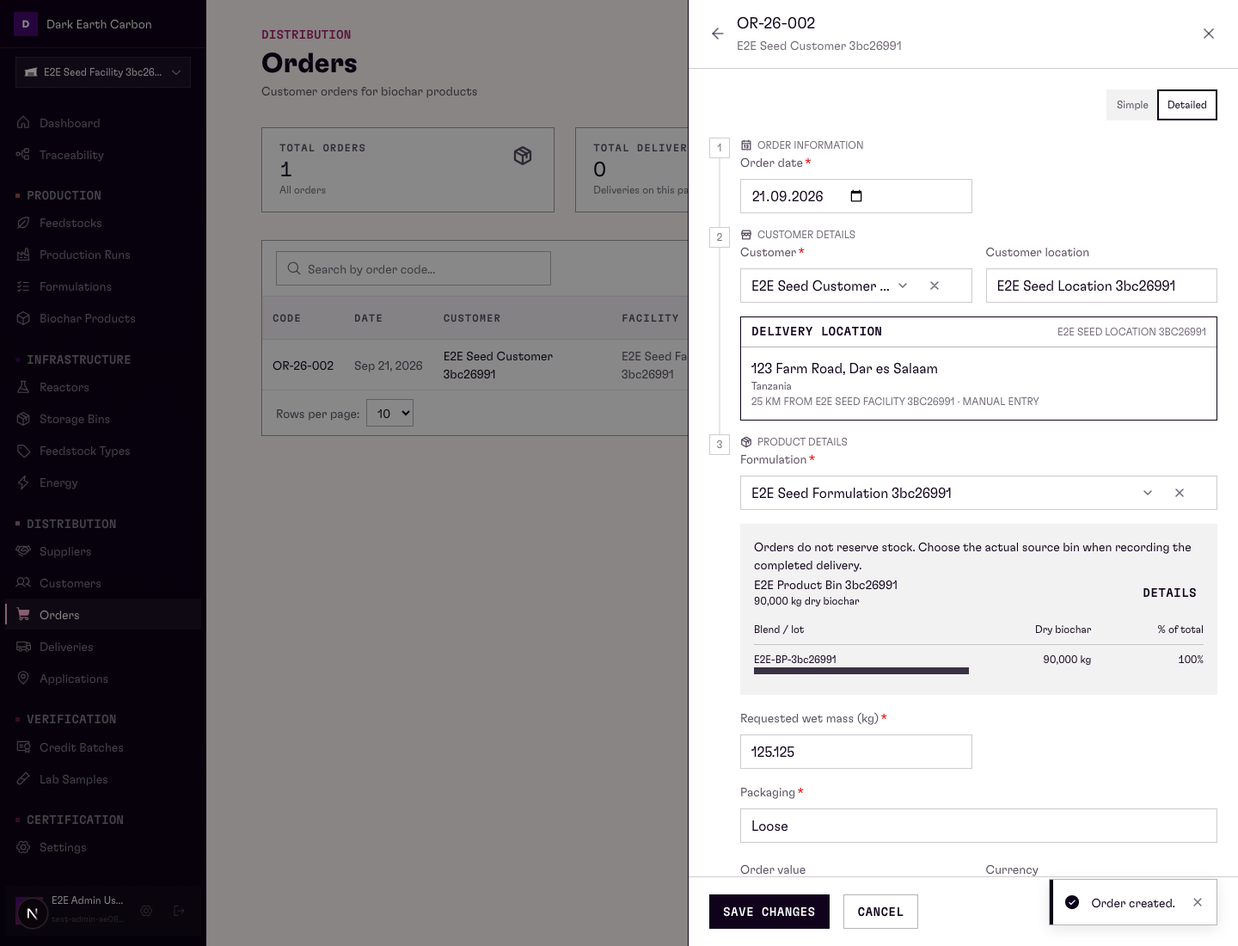
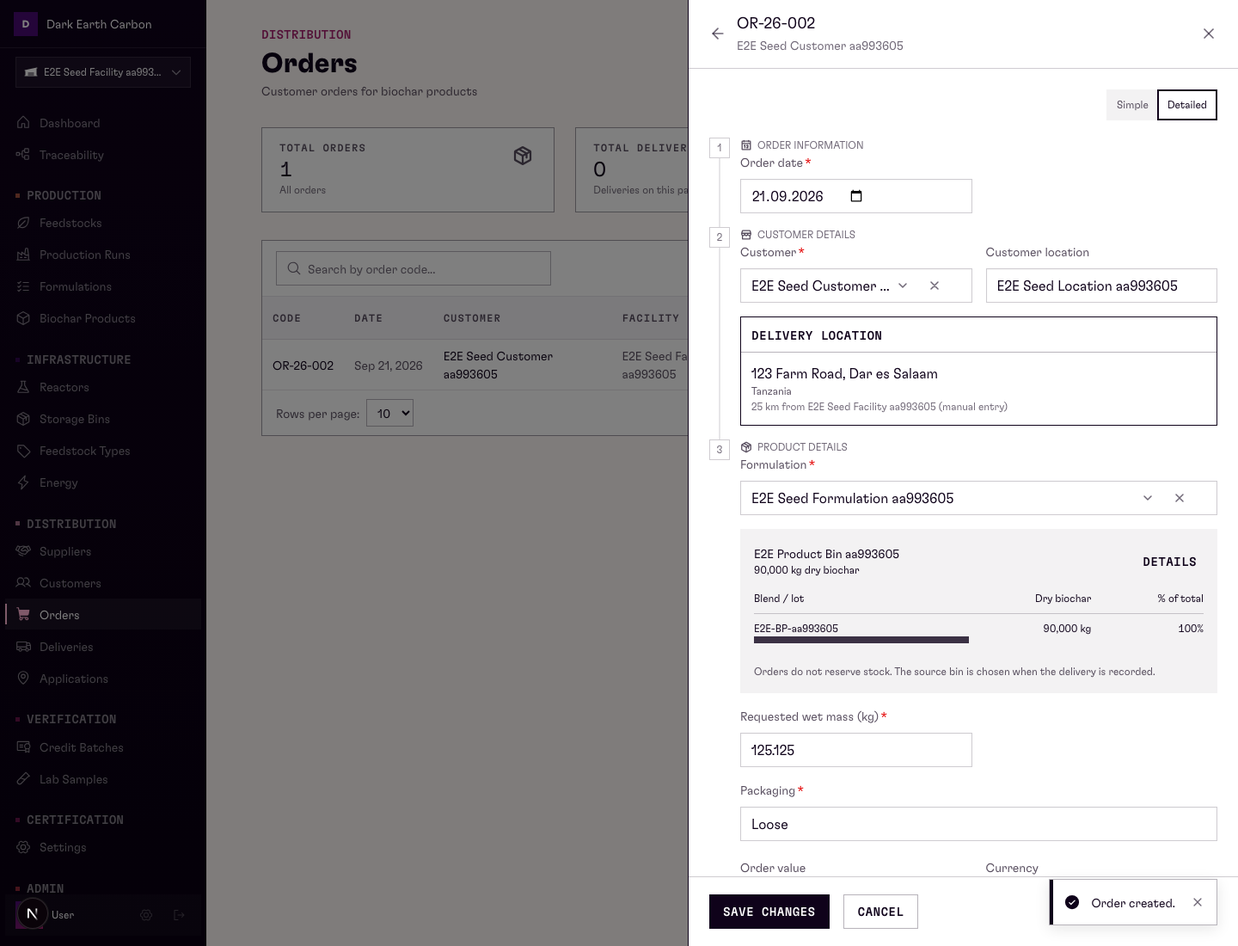
refactor: declutter product and order detail surfaces
One composition table per surface instead of three, source stock as its
own compact panel, calculation lists and repeated headers removed, order
stock note demoted to a footer, fulfillment shown once, and the delivery
location card no longer repeats the selected location name.

diff --git a/src/components/biochar-products/product-read-details.tsx b/src/components/biochar-products/product-read-details.tsx
@@ -2,19 +2,18 @@
 
 import { useState } from "react";
 import { FormDetailToggle, type FormDetailLevel } from "@/components/forms/form-detail-toggle";
-import { BinMovementHistoryModal } from "@/components/storage-locations/bin-movement-history-modal";
 import { OutputStockHistory } from "@/components/storage-locations/output-stock-history";
 import { TransportLegsSummary } from "@/components/transport-legs";
 import { DetailSpine } from "@/components/ui/detail-panel";
 import { EntityDetailValue } from "@/components/ui/entity-detail-value";
-import { BLEND_WET_MASS_LABEL, PURE_BIOCHAR_LABEL } from "@/config/product-labels";
+import { PURE_BIOCHAR_LABEL } from "@/config/product-labels";
 import type { BiocharProductWithRelations } from "@/data-access/biochar-products";
 import { deriveSourceBiocharDryMassKg, deriveSourceBiocharMassKg, fromCompositionJsonb } from "@/lib/biochar-composition";
 import { MASS_KG_STORAGE_DECIMALS } from "@/config/numeric-storage";
 import { formatDate, formatMassKg } from "@/lib/format-utils";
 import { formatMoisturePercent, MOISTURE_FIELD_LABEL, qualifyMassLabel } from "@/lib/mass-moisture";
 import { sumNullable } from "@/lib/nullable-sum";
-import { CalculationFacts, CompositionCard, ingredientComponents, type CompositionComponent } from "./composition-card";
+import { CompositionCard, ingredientComponents, type CompositionComponent } from "./composition-card";
 import { ZeroSourceBiocharWarning } from "./zero-source-biochar-warning";
 
 const formatSavedMassKg = (mass: number | null | undefined) => formatMassKg(mass, { digits: MASS_KG_STORAGE_DECIMALS });
@@ -39,7 +38,6 @@ export function ProductReadDetails({ product }: { product: BiocharProductWithRel
   const [detailLevel, setDetailLevel] = useState<FormDetailLevel>("simple");
   const detailed = detailLevel === "detailed";
   const composition = savedProductComposition(product);
-  const sourceBinId = product.sourceBiocharStorageLocation?.id ?? product.sourceBiocharStorageLocationId ?? product.linkedProductionRun?.biocharStorageLocationId;
   const sourceBinName = product.sourceBiocharStorageLocation?.name ?? product.linkedProductionRun?.biocharStorageLocationName;
   return <div className="space-y-20">
     <div className="flex justify-end"><FormDetailToggle value={detailLevel} onChange={setDetailLevel} /></div>
@@ -50,40 +48,25 @@ export function ProductReadDetails({ product }: { product: BiocharProductWithRel
         fields: [
           { label: "Source biochar bin", value: sourceBinName },
           { label: "Source biochar wet mass (kg)", value: formatSavedMassKg(composition.sourceWetKg) },
-          { label: BLEND_WET_MASS_LABEL, value: formatSavedMassKg(product.massKg) },
           { label: qualifyMassLabel(MOISTURE_FIELD_LABEL, "Biochar"), value: formatMoisturePercent(product.moistureContentPercent) },
           { label: "Water added (kg)", value: formatSavedMassKg(product.waterAddedKg) },
           { label: "Density (kg/m³)", value: product.densityKgM3 != null ? `${product.densityKgM3} kg/m³` : null },
         ],
-        content: <div className="space-y-12">
-          <ZeroSourceBiocharWarning sourceBiocharMassKg={composition.sourceWetKg} />
-          {detailed && <CompositionCard title="Source composition" totalKg={composition.sourceTotalKg} components={composition.sourceComponents} details={<>
-            <CalculationFacts facts={[{ label: "Source biochar (wet)", massKg: composition.sourceWetKg }, { label: "Dry biochar", massKg: composition.sourceDryKg }, { label: "Added water", massKg: product.waterAddedKg }]} />
-            <p>{product.sourceAllocatedDryMassKg !== null ? "Dry biochar uses the recorded source allocation. Later moisture edits do not change it." : "Dry biochar is derived from the recorded source wet mass and moisture."}</p>
-            {sourceBinId && <div className="space-y-8"><h4 className="body-small font-medium">{sourceBinName ?? "Source bin"}</h4><p className="body-caption">Bin history includes recorded movements. It is not a new allocation for this product.</p><OutputStockHistory storageLocationId={sourceBinId} facilityId={product.facilityId} /></div>}
-          </>} />}
-        </div>,
+        content: <ZeroSourceBiocharWarning sourceBiocharMassKg={composition.sourceWetKg} />,
       },
       {
         title: "Formulation & ingredients",
-        fields: [{ label: "Formulation", value: product.formulation?.name ?? PURE_BIOCHAR_LABEL }, ...composition.ingredients.flatMap((ingredient, index) => [
-          { label: `Ingredient ${index + 1} · Blend material`, value: ingredient.feedstockTypeName },
-          { label: `Ingredient ${index + 1} · Mass (kg)`, value: ingredient.massKg != null ? formatSavedMassKg(ingredient.massKg) : null },
-          { label: `Ingredient ${index + 1} · Source bin`, value: <EntityDetailValue entityType="storageLocation" id={ingredient.storageLocationId} /> },
+        fields: [{ label: "Formulation", value: product.formulation?.name ?? PURE_BIOCHAR_LABEL }, ...composition.ingredients.flatMap(ingredient => [
+          { label: `${ingredient.feedstockTypeName} wet mass (kg)`, value: ingredient.massKg != null ? formatSavedMassKg(ingredient.massKg) : null },
+          { label: `${ingredient.feedstockTypeName} source bin`, value: <EntityDetailValue entityType="storageLocation" id={ingredient.storageLocationId} /> },
         ])],
-        content: detailed && <div className="space-y-16">{composition.ingredients.map(ingredient => <CompositionCard key={ingredient.formulationIngredientId} title={`${ingredient.feedstockTypeName} composition`} totalKg={ingredient.massKg ?? null} components={ingredientComponents(ingredient, true)} details={<>
-          <CalculationFacts facts={[{ label: `${ingredient.feedstockTypeName} (wet)`, massKg: ingredient.massKg ?? null }, { label: "Recorded dry solids", massKg: ingredient.massDryKg ?? null }]} />
-          <p>Dry solids use the saved ingredient snapshot, not current bin moisture.</p>
-          {ingredient.storageLocationId && <div className="space-y-8"><EntityDetailValue entityType="storageLocation" id={ingredient.storageLocationId} /><BinMovementHistoryModal storageLocationId={ingredient.storageLocationId} /></div>}
-        </>} />)}</div>,
       },
       {
         title: "Product",
         fields: [{ label: "Product bin", value: product.storageLocation?.name }, { label: "Wet product", value: formatSavedMassKg(composition.productTotalKg) }, { label: "Dry biochar", value: formatSavedMassKg(composition.sourceDryKg) }],
         content: detailed && <CompositionCard title="Product composition" totalKg={composition.productTotalKg} components={composition.productComponents} details={<>
-          <CalculationFacts facts={[{ label: "Source biochar (wet)", massKg: composition.sourceWetKg }, ...composition.ingredients.map(ingredient => ({ label: `${ingredient.feedstockTypeName} (wet)`, massKg: ingredient.massKg ?? null })), { label: "Added water", massKg: product.waterAddedKg }, { label: "Wet total", massKg: composition.productTotalKg }]} />
-          <p>Wet total = recorded blend mass + added water. Dry biochar excludes ingredient solids and water.</p>
-          {product.storageLocation && <div className="space-y-8"><h4 className="body-small font-medium">{product.storageLocation.name}</h4><OutputStockHistory storageLocationId={product.storageLocation.id} facilityId={product.facilityId} /></div>}
+          <p>{product.sourceAllocatedDryMassKg !== null ? "Dry biochar uses the recorded source allocation. Later moisture edits do not change it." : "Dry biochar is derived from the recorded source wet mass and moisture."} Ingredient dry solids come from the saved snapshot, not current bin moisture.</p>
+          {product.storageLocation && <OutputStockHistory storageLocationId={product.storageLocation.id} facilityId={product.facilityId} />}
         </>} />,
       },
       { title: "Derived transport", fields: [], content: <TransportLegsSummary entityType="biochar" entityId={product.id} emptyMessage="Transport legs are derived from this product's deliveries. Record a delivery to a destination with a distance from the facility." /> },

diff --git a/src/components/biochar-products/stock-context.tsx b/src/components/biochar-products/stock-context.tsx
@@ -1,6 +1,5 @@
 "use client";
 
-import { BinMovementHistoryModal } from "@/components/storage-locations/bin-movement-history-modal";
 import { OutputStockHistory } from "@/components/storage-locations/output-stock-history";
 import { InfoHint } from "@/components/ui/tooltip";
 import { formatCompositionMass as formatMassKg } from "./composition-card";
@@ -13,19 +12,30 @@ export function StockChangeLabel({ name, preview, available }: { name: string; p
   return <span className="flex min-w-0 items-center gap-4"><span className="truncate">{name}</span>{valid && <span className={`shrink-0 ${amount < 0 ? "text-[var(--st-ok)]" : "text-[var(--st-wait)]"}`}> ({amount < 0 ? "+" : "−"}{formatMassKg(Math.abs(amount))} wet)</span>}</span>;
 }
 
-export function StockContext({ preview, facilityId }: { preview?: AffectedStockPreview; facilityId: string }) {
+/**
+ * The dated server projection for one bin: what it holds, what this entry
+ * leaves, and which lots the entry draws from. With a `title` it renders as
+ * its own panel; without one it sits inside another card's details.
+ */
+export function StockContext({ preview, facilityId, title }: { preview?: AffectedStockPreview; facilityId: string; title?: string }) {
   if (!preview) return null;
-  return <div className="space-y-12">
-    <h4 className="body-small font-medium">{preview.binName}</h4>
+  const body = <>
     <dl className="grid grid-cols-2 gap-12 body-caption">
-      <div><dt>Available {preview.lane === "ingredient" ? "dry solids" : "dry biochar"}</dt><dd>{formatMassKg(preview.beforeDryKg)}</dd></div>
-      <div><dt>Remaining {preview.lane === "ingredient" ? "dry solids" : "dry biochar"}</dt><dd>{formatMassKg(preview.afterDryKg)}</dd></div>
+      <div><dt className="text-[var(--color-text-secondary)]">Available dry biochar</dt><dd className="tabular-nums">{formatMassKg(preview.beforeDryKg)}</dd></div>
+      <div><dt className="text-[var(--color-text-secondary)]">Remaining after this entry</dt><dd className="tabular-nums">{formatMassKg(preview.afterDryKg)}</dd></div>
     </dl>
-    {preview.lane !== "ingredient" && <>
-      <div className="flex items-center gap-8 body-caption">FIFO: oldest eligible first<InfoHint label="About FIFO">Available lots placed by the movement date are used oldest first, then by posting order.</InfoHint></div>
-      {preview.allocations.map(lot => <div key={lot.layerId} className="space-y-4 pl-12 border-l-2 border-[var(--color-border-secondary)]"><p>{lot.code}: {formatMassKg(lot.dryMassKg)} dry biochar</p>{lot.runs.map(run => <p key={run.productionRunId} className="body-caption">{run.code}: {formatMassKg(run.dryMassKg)} dry biochar</p>)}</div>)}
-      <OutputStockHistory storageLocationId={preview.storageLocationId} facilityId={facilityId} />
-    </>}
-    {preview.lane === "ingredient" && <><p className="body-caption">Ingredient withdrawals use a proportional share of the bin. Product moisture describes the addition and does not change remaining stock.</p><BinMovementHistoryModal storageLocationId={preview.storageLocationId} /></>}
-  </div>;
+    {preview.allocations.length > 0 && <div className="space-y-8 body-caption">
+      <div className="flex items-center gap-8 text-[var(--color-text-secondary)]">Drawn from the oldest lot first<InfoHint label="About FIFO">Available lots placed by the movement date are used oldest first, then by posting order.</InfoHint></div>
+      {preview.allocations.map(lot => <div key={lot.layerId} className="space-y-4 border-l-2 border-[var(--color-border-secondary)] pl-12">
+        <div>{lot.code}: {formatMassKg(lot.dryMassKg)} dry biochar</div>
+        {lot.runs.filter(run => lot.runs.length > 1 || run.code !== lot.code).map(run => <div key={run.productionRunId} className="text-[var(--color-text-secondary)]">{run.code}: {formatMassKg(run.dryMassKg)} dry biochar</div>)}
+      </div>)}
+    </div>}
+    <OutputStockHistory storageLocationId={preview.storageLocationId} facilityId={facilityId} />
+  </>;
+  if (!title) return <div className="space-y-12">{body}</div>;
+  return <section aria-label={title} className="space-y-12 bg-[var(--color-surface-light)] p-16">
+    <h3 className="body-small font-medium">{title}</h3>
+    {body}
+  </section>;
 }

diff --git a/src/components/biochar-products/biochar-product-form.tsx b/src/components/biochar-products/biochar-product-form.tsx
@@ -46,7 +46,7 @@ import { CalendarIcon, CubeIcon, FactoryIcon, ListChecksIcon } from "@phosphor-i
 import Link from "next/link";
 import { Controller, useForm, useWatch } from "react-hook-form";
 import { FormDetailToggle, type FormDetailLevel } from "@/components/forms/form-detail-toggle";
-import { CalculationFacts, CompositionCard, ingredientComponents, type CompositionComponent } from "./composition-card";
+import { CompositionCard, ingredientComponents, type CompositionComponent } from "./composition-card";
 import { StockChangeLabel, StockContext } from "./stock-context";
 import { IngredientBinRows } from "./ingredient-bin-rows";
 import { ZeroSourceBiocharWarning } from "./zero-source-biochar-warning";
@@ -435,7 +435,7 @@ export function BiocharProductForm({
         </FormField>
 
         <BiocharSourceMassFields
-          splitPreview={detailed ? <CompositionCard title="Source composition" totalKg={waterAddedKgNum !== null ? finalMassSplit?.wetKg ?? null : null} components={sourceComponents} details={<><CalculationFacts facts={[{ label: "Biochar wet mass", massKg: massKgNum }, { label: "Dry biochar", massKg: sourceDryKg }, { label: "Added water", massKg: waterAddedKgNum }]} /><p>{hasFrozenSourceAllocation ? "Dry biochar is fixed by the recorded source allocation. Updating moisture does not change that allocation." : "Dry biochar comes from the source allocation at the measured moisture."} Added water leaves dry biochar unchanged.</p><StockContext preview={validSourcePreview} facilityId={selectedFacilityId} /></>} /> : null}
+          splitPreview={detailed ? <StockContext title="Source stock" preview={validSourcePreview} facilityId={selectedFacilityId} /> : null}
           materialLabel="Biochar"
           wetMassKg={watchedMassKg}
           moisturePercent={watchedMoisture}
@@ -545,7 +545,6 @@ export function BiocharProductForm({
           composition={composition}
           isSubmitting={isSubmitting}
           allocationFrozen={hasFrozenSourceAllocation}
-          detailed={detailed}
           previews={productStockPreview.data}
           previewsAvailable={!affectedBinsUnavailable}
         />
@@ -586,7 +585,7 @@ export function BiocharProductForm({
             )}
           />
         </FormField>
-        {detailed && <CompositionCard title="Product composition" totalKg={destinationWetProductKg} components={productComponents} details={<><CalculationFacts facts={[{ label: "Source biochar (wet)", massKg: massKgNum }, ...(watchedIngredientBins ?? []).map(ingredient => ({ label: `${ingredient.feedstockTypeName} (wet)`, massKg: typeof ingredient.massKg === "number" ? ingredient.massKg : null })), { label: "Added water", massKg: waterAddedKgNum }, { label: "Wet total", massKg: destinationWetProductKg }]} /><p>Wet total = source biochar + ingredients + added water. Dry biochar excludes ingredient solids and water.</p><StockContext preview={destinationPreview} facilityId={selectedFacilityId} /></>} />}
+        {detailed && <CompositionCard title="Product composition" totalKg={destinationWetProductKg} components={productComponents} details={<><p>{hasFrozenSourceAllocation ? "Dry biochar is fixed by the recorded source allocation." : "Dry biochar comes from the source lots at the measured moisture."} Added water and ingredient solids leave it unchanged.</p><StockContext preview={destinationPreview} facilityId={selectedFacilityId} /></>} />}
       </FormSection>
       </FormSpine>
 

diff --git a/src/components/orders/matching-output-bins.tsx b/src/components/orders/matching-output-bins.tsx
@@ -22,13 +22,13 @@ export function MatchingOutputBins({ facilityId, formulationId }: { facilityId: 
   const physicalDate = timezone ? formatFacilityDate(new Date(), timezone) : null;
   if (!formulationId) return null;
   return <section className="space-y-16 bg-[var(--color-surface-light)] p-16" aria-label="Matching storage bins">
-    <p className="body-small">Orders do not reserve stock. Choose the actual source bin when recording the completed delivery.</p>
     {bins.isLoading && <p role="status">Loading matching bins...</p>}
     {bins.error && <p role="alert">{bins.error.message}</p>}
     {bins.data?.length === 0 && <EmptyState icon={<PackageIcon size={32} />} title="No matching stock" description="You can save this order now and record its delivery when stock is available." padding="sm" />}
     <div className="space-y-16">
       {bins.data?.map(bin => <MatchingOutputBinCard key={bin.id} bin={bin} facilityId={facilityId} physicalDate={physicalDate} />)}
     </div>
+    <p className="body-caption text-[var(--color-text-secondary)]">Orders do not reserve stock. The source bin is chosen when the delivery is recorded.</p>
   </section>;
 }
 
@@ -57,9 +57,8 @@ function MatchingOutputBinCard({ bin, facilityId, physicalDate }: {
       <tbody>{preview?.beforeAllocations?.map(lot => <tr key={lot.layerId}><th scope="row" className="space-y-4 py-8 pr-12 text-left font-normal">{lot.code}<div aria-hidden="true" className="h-8 bg-[var(--color-background-medium)]"><div className="h-full bg-[var(--clr-dark-purple-80)]" style={{ width: `${total > 0 && lot.dryMassKg !== null ? lot.dryMassKg / total * PERCENT_SCALE : 0}%` }} /></div></th><td className="py-8 text-right align-top tabular-nums">{formatMassKg(lot.dryMassKg)}</td><td className="py-8 text-right align-top tabular-nums">{total > 0 && lot.dryMassKg !== null ? formatPercent(lot.dryMassKg / total * PERCENT_SCALE) : MISSING_VALUE.notAvailable}</td></tr>)}</tbody>
     </table>
     <div id={detailsId} hidden={!detailsOpen} className="space-y-12 border-t border-[var(--color-border-secondary)] pt-16 body-caption">
-      <p>{bin.code}{preview?.formulationName ? ` · ${preview.formulationName}` : ""}</p>
-      <div className="flex items-center gap-8">FIFO: oldest eligible first<InfoHint label="About FIFO">At delivery, stock placed by the movement date is used oldest first, then by posting order. Creating an order does not draw from these lots.</InfoHint></div>
-      <p>Available dry biochar is the sum of the remaining source lots. It excludes ingredient solids and water.</p>
+      <p>{bin.code}{preview?.formulationName ? ` (${preview.formulationName})` : ""}</p>
+      <div className="flex items-center gap-8">Delivered from the oldest lot first<InfoHint label="About FIFO">At delivery, stock placed by the movement date is used oldest first, then by posting order. Dry biochar excludes ingredient solids and water. Creating an order does not draw from these lots.</InfoHint></div>
       <p>Wet availability depends on measured departure moisture.</p>
       {preview?.beforeAllocations?.map(lot => <div key={lot.layerId} className="space-y-4 border-l-2 border-[var(--color-border-secondary)] pl-12"><p className="font-medium">{lot.code}</p>{lot.runs.map(run => <p key={run.productionRunId}>{run.code}: {formatMassKg(run.dryMassKg)} dry biochar</p>)}</div>)}
       <OutputStockHistory storageLocationId={bin.id} facilityId={facilityId} />

diff --git a/src/components/orders/order-read-details.tsx b/src/components/orders/order-read-details.tsx
@@ -12,6 +12,7 @@ import { MatchingOutputBins } from "./matching-output-bins";
 
 export function OrderReadDetails({ order }: { order: OrderWithRelations }) {
   const [detailLevel, setDetailLevel] = useState<FormDetailLevel>("simple");
+  const fulfillment = ORDER_FULFILLMENT_DISPLAY[order.fulfillmentStatus];
   return <div className="space-y-20">
     <div className="flex justify-end"><FormDetailToggle value={detailLevel} onChange={setDetailLevel} /></div>
     <DetailSpine numbered sections={[
@@ -25,14 +26,14 @@ export function OrderReadDetails({ order }: { order: OrderWithRelations }) {
           <DetailRow><DetailField label="Requested wet mass (kg)" value={formatMassKg(order.quantityKg, { digits: MASS_KG_STORAGE_DECIMALS })} /></DetailRow>
           <DetailRow><DetailField label="Packaging" value={<span className="capitalize">{order.packaging}</span>} /></DetailRow>
           <DetailRow><DetailField label="Order value" value={order.value} /><DetailField label="Currency" value={order.currency} /></DetailRow>
-          {detailLevel === "detailed" && <div className="space-y-12"><h3 className="body-small font-medium">Current stock</h3><p className="body-caption text-[var(--color-text-secondary)]">Current availability, not a stock snapshot from the order date.</p><MatchingOutputBins facilityId={order.facilityId} formulationId={order.formulationId ?? ""} /></div>}
+          {detailLevel === "detailed" && <div className="space-y-12"><div><h3 className="body-small font-medium">Current stock</h3><p className="body-caption text-[var(--color-text-secondary)]">Current availability, not a stock snapshot from the order date.</p></div><MatchingOutputBins facilityId={order.facilityId} formulationId={order.formulationId ?? ""} /></div>}
         </>,
       },
       {
         title: "Fulfillment",
         fields: [
-          { label: "Fulfillment", value: <StatusBadge status={ORDER_FULFILLMENT_DISPLAY[order.fulfillmentStatus].badgeStatus} label={ORDER_FULFILLMENT_DISPLAY[order.fulfillmentStatus].label} /> },
-          { label: "Delivered", value: order.deliveryCount > 0 ? `${order.deliveredCount} of ${order.deliveryCount}` : "No deliveries scheduled" },
+          { label: "Fulfillment", value: <StatusBadge status={fulfillment.badgeStatus} label={fulfillment.label} /> },
+          ...(order.deliveryCount > 0 ? [{ label: "Delivered", value: `${order.deliveredCount} of ${order.deliveryCount}` }] : []),
         ],
       },
     ]} />

diff --git a/tests/e2e/product-order-presentation.spec.ts b/tests/e2e/product-order-presentation.spec.ts
@@ -110,13 +110,12 @@ test("product inline presentation preserves measured inputs and guards actual st
     await capture(page, "product-simple-desktop");
 
     await showDetailsWithKeyboard(dialog);
-    const source = dialog.getByRole("region", { name: "Source composition", exact: true });
+    const source = dialog.getByRole("region", { name: "Source stock", exact: true });
     const product = dialog.getByRole("region", { name: "Product composition", exact: true });
     await expect(source).toBeVisible();
     await expect(product.getByRole("row", { name: /Biochar \(dry\)/ })).toContainText("200 kg");
     await expect(product.getByRole("row", { name: new RegExp(`${scenario.ingredientName}.*dry`) })).toContainText("80 kg");
     await expect(product.getByRole("row", { name: "Wet total", exact: false })).toContainText("400 kg");
-    await source.getByRole("button", { name: "Show details for source composition" }).press("Enter");
     await expect(source.getByText(`${scenario.firstCode}: 80 kg dry biochar`, { exact: true }).first()).toBeVisible();
     await expect(source.getByText(`${scenario.secondCode}: 120 kg dry biochar`, { exact: true }).first()).toBeVisible();
     await capture(page, "product-detailed-desktop");
@@ -264,6 +263,7 @@ test("order details show actual dry stock and saving requested wet mass does not
   await expect(stock.getByRole("button", { name: `Hide details for ${seededData.productStorageLocation.name}`, exact: true })).toHaveAttribute("aria-expanded", "true");
   await page.keyboard.press("Enter");
   await expect(stockExplanation).toBeHidden();
+  await expect(stock.getByText("Loading stock details...", { exact: true })).toBeHidden();
   await capture(page, "order-detailed-desktop");
   await dialog.locator('input[name="value"]').scrollIntoViewIfNeeded();
   const valueBox = await dialog.locator('input[name="value"]').boundingBox();

diff --git a/src/components/biochar-products/ingredient-bin-field.tsx b/src/components/biochar-products/ingredient-bin-field.tsx
@@ -19,8 +19,7 @@ import {
   type Control,
   type FieldValues,
 } from "react-hook-form";
-import { CompositionCard, ingredientComponents } from "./composition-card";
-import { StockChangeLabel, StockContext } from "./stock-context";
+import { StockChangeLabel } from "./stock-context";
 import type { AffectedStockPreview } from "@/types/output-stock";
 import { IngredientMoistureField } from "./ingredient-moisture-field";
 
@@ -134,7 +133,6 @@ interface IngredientBinFieldProps {
   isSubmitting: boolean;
   facilityId: string;
   allocationFrozen?: boolean;
-  detailed?: boolean;
   previews?: AffectedStockPreview[];
   previewsAvailable?: boolean;
 }
@@ -145,7 +143,6 @@ export function IngredientBinField({
   isSubmitting,
   facilityId,
   allocationFrozen = false,
-  detailed = false,
   previews,
   previewsAvailable = false,
 }: IngredientBinFieldProps) {
@@ -238,7 +235,6 @@ export function IngredientBinField({
         )}
       />
       <IngredientMoistureField control={control} index={row.index} frozen={allocationFrozen} disabled={isSubmitting} />
-      {detailed && ingredient && <div className="md:col-span-2"><CompositionCard title={`${row.feedstockTypeName} composition`} totalKg={typeof ingredient.massKg === "number" && ingredient.massKg >= 0 ? ingredient.massKg : null} components={ingredientComponents(ingredient, allocationFrozen, preview)} details={<><p>{allocationFrozen ? "Dry solids use the recorded ingredient snapshot." : ingredient.moistureSource === "operator_override" ? "Dry solids = ingredient wet mass × (1 − measured moisture ÷ 100)." : "Dry solids use the unrounded ratio of dry solids to wet stock in the selected bin."}</p><StockContext preview={preview} facilityId={facilityId} /></>} /></div>}
     </div>
   );
 }

diff --git a/src/components/orders/customer-location-details.tsx b/src/components/orders/customer-location-details.tsx
@@ -127,12 +127,9 @@ export function CustomerLocationDetails({
       className="border-[1.5px] border-[var(--clr-dark-purple)]"
       data-testid="order-location-details"
     >
-      <div className="flex items-baseline justify-between border-b border-[var(--clr-dark-purple-30)] px-12 py-8">
+      <div className="border-b border-[var(--clr-dark-purple-30)] px-12 py-8">
         <span className="label-button uppercase text-[var(--color-text-primary)]">
           Delivery location
-        </span>
-        <span className="body-caption uppercase tracking-[0.08em] text-[var(--color-text-tertiary)]">
-          {location.name ?? "Unnamed location"}
         </span>
       </div>
 
@@ -162,7 +159,7 @@ export function CustomerLocationDetails({
             </p>
           )}
           <p
-            className="body-caption uppercase tracking-[0.08em] text-[var(--color-text-tertiary)]"
+            className="body-caption text-[var(--color-text-tertiary)]"
             data-testid="order-location-distance"
           >
             {location.distanceFromFacilityKm != null
@@ -170,7 +167,7 @@ export function CustomerLocationDetails({
               : "Distance from facility not recorded"}
             {location.distanceFromFacilityKm != null &&
               location.distanceSource != null &&
-              ` · ${DISTANCE_SOURCE_LABELS[location.distanceSource]}`}
+              ` (${DISTANCE_SOURCE_LABELS[location.distanceSource].toLowerCase()})`}
           </p>
         </div>
 

diff --git a/src/components/biochar-products/ingredient-bin-rows.tsx b/src/components/biochar-products/ingredient-bin-rows.tsx
@@ -8,7 +8,6 @@ interface IngredientBinRowsProps {
   composition: UseBiocharCompositionResult;
   isSubmitting: boolean;
   allocationFrozen?: boolean;
-  detailed?: boolean;
   previews?: AffectedStockPreview[];
   previewsAvailable?: boolean;
 }
@@ -17,7 +16,6 @@ export function IngredientBinRows({
   composition,
   isSubmitting,
   allocationFrozen = false,
-  detailed = false,
   previews,
   previewsAvailable = false,
 }: IngredientBinRowsProps) {
@@ -37,7 +35,6 @@ export function IngredientBinRows({
           isSubmitting={isSubmitting}
           facilityId={composition.facilityId}
           allocationFrozen={allocationFrozen}
-          detailed={detailed}
           previews={previews}
           previewsAvailable={previewsAvailable}
         />

diff --git a/src/components/biochar-products/composition-card.tsx b/src/components/biochar-products/composition-card.tsx
@@ -20,9 +20,6 @@ export function formatCompositionMass(mass: number | null | undefined) {
   return mass > 0 && mass < MIN_DISPLAY_MASS_KG ? `<${formatMassKg(MIN_DISPLAY_MASS_KG)}` : formatMassKg(mass);
 }
 
-export function CalculationFacts({ facts }: { facts: { label: string; massKg: number | null }[] }) {
-  return <dl className="space-y-8">{facts.map(fact => <div key={fact.label} className="flex flex-wrap justify-between gap-8"><dt className="text-[var(--color-text-secondary)]">{fact.label}</dt><dd className="tabular-nums">{formatCompositionMass(fact.massKg)}</dd></div>)}</dl>;
-}
 
 const FILLS = {
   biochar: "bg-[var(--clr-dark-purple-80)]",

diff --git a/docs/archive/qa/2026-09-21-product-order-pr-821/README.md b/docs/archive/qa/2026-09-21-product-order-pr-821/README.md
@@ -1,12 +1,12 @@
 # Product and Order screenshot review
 
-Visual evidence for [PR #821](https://github.com/Maji-Studio/noma-dmrv/pull/821), captured from the real application after the Opus/frontend-design polish. Use this gallery to review the Product and Order create, read, and edit surfaces on desktop and narrow screens.
+Visual evidence for [PR #821](https://github.com/Maji-Studio/noma-dmrv/pull/821), captured from the real application after the declutter pass (one composition table per surface, stock context as its own panel, calculation lists and repeated headers removed). Use this gallery to review the Product and Order create, read, and edit surfaces on desktop and narrow screens.
 
 Application commit: `4b695612a3e113ec55fbbf5e5e6c4ea376217eae`.
 
 These screenshots use synthetic local E2E records. Desktop viewport: 1440 × 1100; narrow viewport: 390 × 844. Images are unmodified full-page browser captures, so some include success toasts, the local development badge, or page content below the sheet viewport. The browser flow scrolls to the relevant fields before each capture; individual images are views of the sheet rather than stitched captures of all its content.
 
-Validation at capture: both complete Product/Order and FIFO browser specs passed (6 tests), including keyboard Details controls, value preservation, actual saves, and narrow-layout overflow checks.
+Validation at capture: the Product/Order presentation, FIFO, and distribution browser specs passed (16 tests), including keyboard Details controls, value preservation, actual saves, and narrow-layout overflow checks.
 
 ## Quick comparison
 
